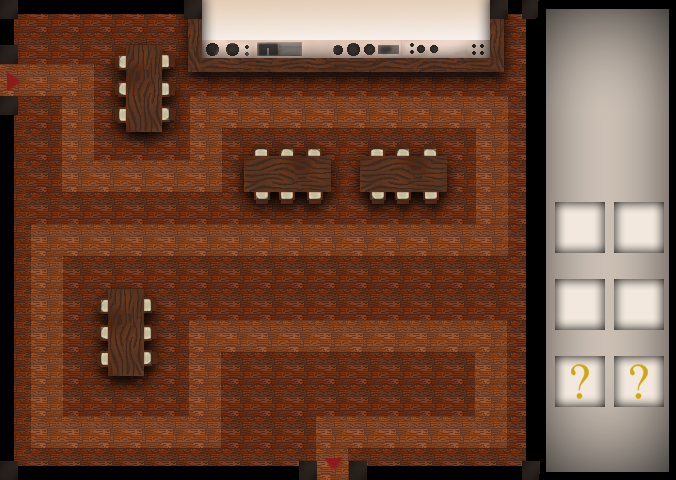
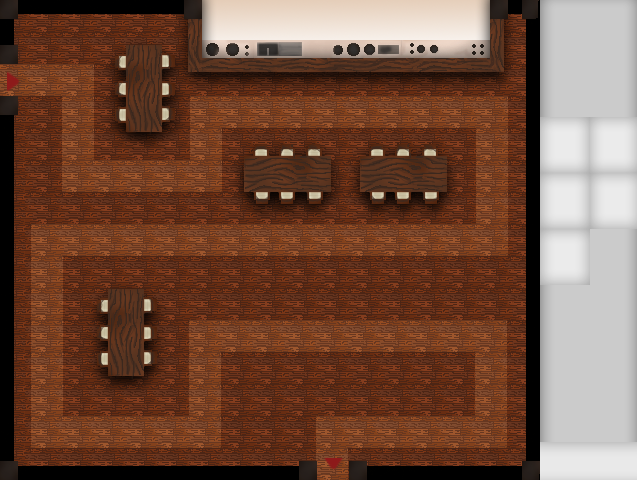
Fix, fix, fix !

diff --git a/src/main.cpp b/src/main.cpp
@@ -64,7 +64,7 @@ void	handleClick(gtd::Screen &screen, sf::Event &event)
 				(*towers)[selected]->select();
 				selected = -1;
 			}
-		} else if (selected == -2 && position.x >= 546) {
+		} else if (selected == -2) {
 			if (position.y >= 114 && position.y < 164) {
 				if (position.x < 600 && game->pay(gtd::CookingGrandMa::cost)) {
 					towers->emplace_back(new gtd::CookingGrandMa({}, selectedBox, sBuffers["cooking"]));
@@ -85,10 +85,7 @@ void	handleClick(gtd::Screen &screen, sf::Event &event)
 				if (position.x < 600 && game->pay(gtd::SpeakingGrandMa::cost)) {
 					towers->emplace_back(new gtd::SpeakingGrandMa(sBuffers["speak"], selectedBox, sBuffers["blablabla"]));
 					selected = -1;
-				}/* else if (position.x >= 600 && position.x < 650 && game->pay(gtd::CaramelGrandMa::cost)) {
-					//towers->emplace_back(new gtd::CaramelGrandMa(sBuffer, selectedBox));
-					//selected = -1;
-				}*/
+				}
 			}
 		} else {
 			if (selected >= 0)
@@ -144,8 +141,6 @@ bool manageWave(int wave, std::vector<gtd::Mob *> &mobs, gtd::Map &map, bool res
 void	displayHUD(gtd::Screen &screen, gtd::Map &map, std::vector<gtd::Tower *> &towers)
 {
 	(void) map;
-	screen.fillColor(sf::Color(255, 255, 0));
-	screen.displayElement(sf::IntRect(544, 0, 150, 480));
 	screen.textSize(15);
 	sprites["life"]->display(screen, sf::Vector2f(550, 4));
 	screen.fillColor(sf::Color(0, 0, 0));
@@ -193,28 +188,28 @@ void	displayHUD(gtd::Screen &screen, gtd::Map &map, std::vector<gtd::Tower *> &t
 
 		screen.fillColor(gtd::CookingGrandMa::cost <= game->getMoney() ? sf::Color(0, 0, 0) : sf::Color(255, 0, 0));
 		sprites["cooking"]->_sprite.setRotation(90);
-		screen.displayElement(sprites["cooking"]->_sprite, sf::Vector2f(590, 120));
-		screen.displayElement(std::to_string(gtd::CookingGrandMa::cost) + "$", sf::Vector2f(564, 150));
+		screen.displayElement(sprites["cooking"]->_sprite, sf::Vector2f(580, 120));
+		screen.displayElement(std::to_string(gtd::CookingGrandMa::cost) + "$", sf::Vector2f(552, 150));
 
 		screen.fillColor(gtd::TvGrandMa::cost <= game->getMoney() ? sf::Color(0, 0, 0) : sf::Color(255, 0, 0));
 		sprites["tv"]->_sprite.setRotation(90);
 		screen.displayElement(sprites["tv"]->_sprite, sf::Vector2f(630, 120));
-		screen.displayElement(std::to_string(gtd::TvGrandMa::cost) + "$", sf::Vector2f(604, 150));
+		screen.displayElement(std::to_string(gtd::TvGrandMa::cost) + "$", sf::Vector2f(602, 150));
 
 		screen.fillColor(gtd::CakeGrandMa::cost <= game->getMoney() ? sf::Color(0, 0, 0) : sf::Color(255, 0, 0));
 		sprites["grandma1"]->_sprite.setRotation(90);
-		screen.displayElement(sprites["grandma1"]->_sprite, sf::Vector2f(590, 170));
-		screen.displayElement(std::to_string(gtd::CakeGrandMa::cost) + "$", sf::Vector2f(564, 200));
+		screen.displayElement(sprites["grandma1"]->_sprite, sf::Vector2f(580, 170));
+		screen.displayElement(std::to_string(gtd::CakeGrandMa::cost) + "$", sf::Vector2f(552, 200));
 
 		screen.fillColor(gtd::CaramelGrandMa::cost <= game->getMoney() ? sf::Color(0, 0, 0) : sf::Color(255, 0, 0));
 		sprites["grandma2"]->_sprite.setRotation(90);
 		screen.displayElement(sprites["grandma2"]->_sprite, sf::Vector2f(630, 170));
-		screen.displayElement(std::to_string(gtd::CaramelGrandMa::cost) + "$", sf::Vector2f(604, 200));
+		screen.displayElement(std::to_string(gtd::CaramelGrandMa::cost) + "$", sf::Vector2f(602, 200));
 
 		screen.fillColor(gtd::SpeakingGrandMa::cost <= game->getMoney() ? sf::Color(0, 0, 0) : sf::Color(255, 0, 0));
 		sprites["grandma3"]->_sprite.setRotation(90);
-		screen.displayElement(sprites["grandma3"]->_sprite, sf::Vector2f(590, 220));
-		screen.displayElement(std::to_string(gtd::SpeakingGrandMa::cost) + "$", sf::Vector2f(564, 250));
+		screen.displayElement(sprites["grandma3"]->_sprite, sf::Vector2f(580, 220));
+		screen.displayElement(std::to_string(gtd::SpeakingGrandMa::cost) + "$", sf::Vector2f(552, 250));
 	}
 	screen.fillColor(sf::Color(0, 0, 0));
 	screen.displayElement("Wave " + std::to_string(game->getWave()), sf::Vector2f(550, 450));

diff --git a/include/Resources.hpp b/include/Resources.hpp
@@ -12,10 +12,10 @@ namespace gtd {
 	struct Food {
 		enum Type {
 			Any,
-			GlutenFree,
-			Vegan,
-			Carnivore,
-			NbOfTypes
+			GlutenFree = 1,
+			Vegan = 1,
+			Carnivore = 1,
+			NbOfTypes = 1
 		};
 
 		std::vector<double>	stock;
